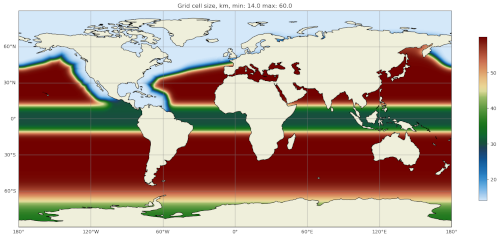
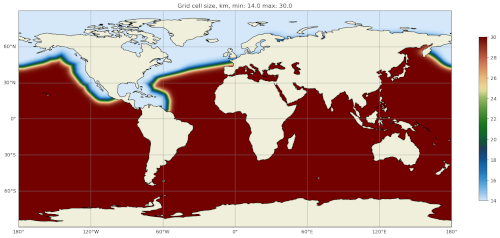
Update the docs

diff --git a/docs/developers_guide/ocean/test_groups/global_ocean.rst b/docs/developers_guide/ocean/test_groups/global_ocean.rst
@@ -863,8 +863,7 @@ WC14 and WCwISC14
 The ``WC14`` and ``WCwISC14`` meshes are the Water Cycle regionally refined
 meshes for E3SM v3.  They have higher resolution (~14-km) around the continental
 US, the Arctic Ocean, and a section of the North Atlantic containing the Gulf
-Stream. The resolution elsewhere varies between 35 km at the South Pole to 60
-km at mid latitudes, with a band of 30-km resolution around the equator.
+Stream. The resolution is uniformly about 30 km elsewhere.
 
 The class :py:class:`compass.ocean.tests.global_ocean.mesh.wc14.WC14BaseMesh`
 defines the resolution for the meshes. The
@@ -922,9 +921,9 @@ The default config options for these meshes are:
     # the minimum (finest) resolution in the mesh
     min_res = 14
     # the maximum (coarsest) resolution in the mesh, can be the same as min_res
-    max_res = 60
+    max_res = 30
     # The URL of the pull request documenting the creation of the mesh
-    pull_request = https://github.com/MPAS-Dev/MPAS-Model/pull/628
+    pull_request = https://github.com/MPAS-Dev/MPAS-Model/pull/780
 
 
     # config options related to initial condition and diagnostics support files

diff --git a/docs/users_guide/ocean/test_groups/global_ocean.rst b/docs/users_guide/ocean/test_groups/global_ocean.rst
@@ -457,15 +457,13 @@ in the North Pacific, and 35 km in the Arctic.  The mesh includes the
 WC14 and WCwISC14
 ^^^^^^^^^^^^^^^^^
 
-The Water Cycle 14- to 60-km mesh (WC14) is intended to be the main regionally
-refined simulation mesh for the
-`E3SM v2 Water Cycle Science Campaign <https://e3sm.org/research/water-cycle/v2-water-cycle-research//>`_.
-The E3SM v3 Water Cycle Changes and Impacts Campaign is expected to use the
-same mesh but including ice-shelf cavities (WCwISC14).
+The Water Cycle 14- to 30-km mesh (WC14) is a regionally refined mesh for
+several
+`E3SM v3 Science Campaigns <https://e3sm.org/research/science-campaigns/v3-v4-campaign-goals/>`_.
 
 The mesh has 14 km resolution around the continental US, Arctic Ocean and parts
-of the North Atlantic, tapering to 60 km in mid latitudes, 30 km at the
-equator, and 35 km around Antarctica.
+of the North Atlantic, with 30 km uniform resolution elsewhere around the
+globe.
 
 .. image:: images/wc14.png
    :width: 500 px
